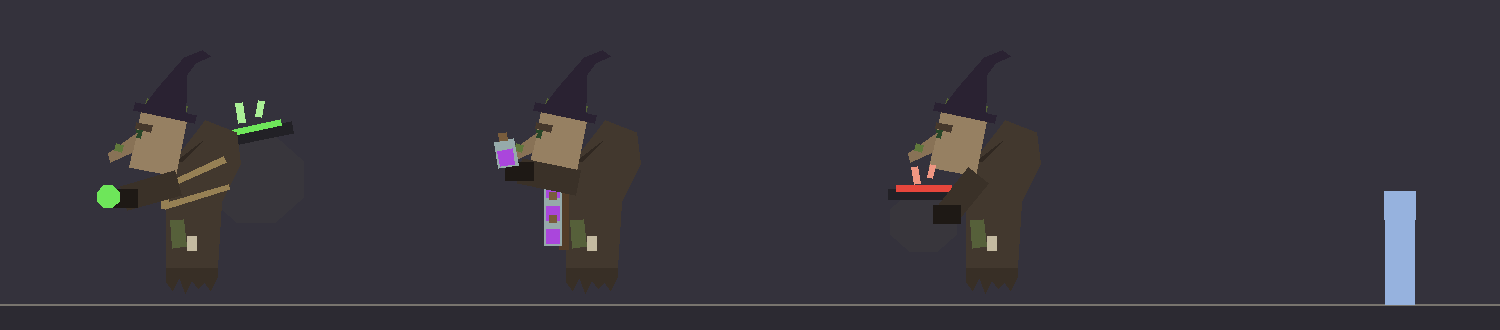
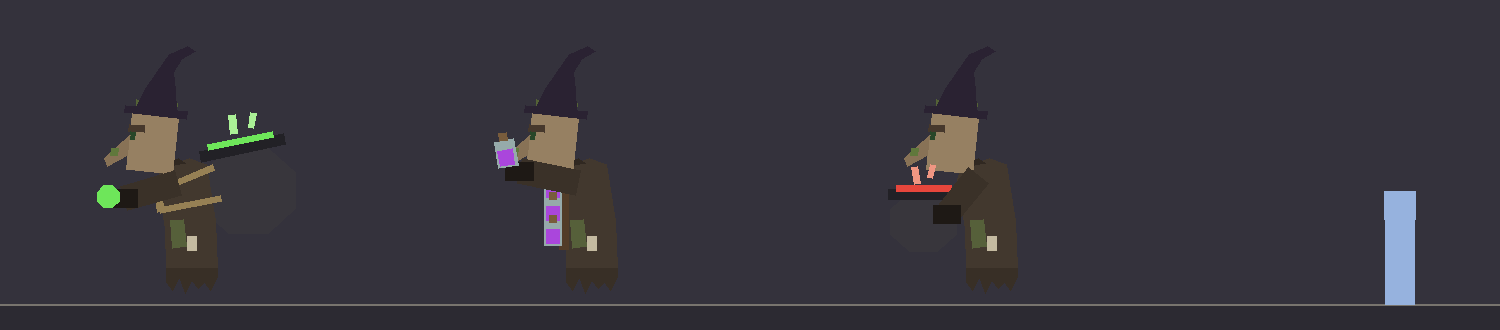
Witch Coven line-up: an old woman's stoop instead of a hump

diff --git a/tools/art/bosses/coven_lineup.py b/tools/art/bosses/coven_lineup.py
@@ -69,8 +69,9 @@ def ragged_hem(x0, x1, top, depth, teeth):
 
 # ---- the body (villager 1.45x: head 12 x 14.5, robe 12 wide; the back built up into a hump) ------------------------
 HEM_TOP, SHOULDER = 9, 34          # the robe runs straight from y 9 up to the shoulders at y 34
-HEAD = (-9, 41)                    # pushed forward and down by the hunch
-TILT = 12
+HEAD = (-10, 41)                   # an old woman's stoop: the upper body leans forward, the head comes forward
+TILT = 6
+STOOP = 9                          # degrees the robe leans forward above the waist
 
 
 def hat(hx, top):
@@ -82,13 +83,14 @@ def hat(hx, top):
 
 def side_body():
     """Side view, facing left (-z is the front)."""
-    out = [("robe", [(-6, HEM_TOP), (-6, SHOULDER - 2), (-3, SHOULDER + 4), (4, 47), (12, 44), (13, 36), (8, 26),
-                     (7, HEM_TOP)])]                       # straight front and back, the big hump over the shoulders
+    upper = turn([(-6, 20), (-6, SHOULDER - 1), (-4.5, SHOULDER + 2), (3, SHOULDER + 3), (7, SHOULDER + 1), (7, 20)],
+                 (0, 18), STOOP)                            # straight sides, rounded old shoulders, leaning forward
+    out = [("robe", [(-6, HEM_TOP)] + upper + [(7, HEM_TOP)])]
     out.append(("hem", ragged_hem(-6, 7, HEM_TOP, 5, 4)))
     out.append(("herb", rect(-3, 18, 3.5, 7, 6)))
     out.append(("bone", rect(0.5, 15.5, 2.2, 3.4)))
     hx, hy = HEAD
-    head = [("robe_dark", [(-4, SHOULDER + 3), (hx + 1, hy - 6), (hx + 7, hy - 3), (2, 44)]),     # the hood joining the hump
+    head = [("robe_dark", [(-8, SHOULDER + 1), (hx + 1, hy - 6), (hx + 7, hy - 3), (-1, SHOULDER + 3)]),  # the collar
             ("skin", rect(hx, hy, 12, 14.5)), ("brow", rect(hx - 4.5, hy + 3.6, 4, 1.8)),
             ("eye", rect(hx - 5.4, hy + 1.6, 1.4, 2)),
             ("nose", [(hx - 6, hy + 1.5), (hx - 12, hy - 5), (hx - 11, hy - 7), (hx - 6, hy - 3.5)]),
@@ -107,11 +109,11 @@ def side_sister(kind, role):
     out = []
     if kind == "cauldron":
         # the extra-large cauldron rides the hump, roped round her middle; one sleeve raised to cast
-        out += [("iron", octagon(17, 32, 12, 11)), ("iron_dark", rect(15.5, 43, 22, 3, 12)), (G, rect(15, 44.8, 17, 1.6, 12))]
-        out += [(M, rect(13, 49, 1.8, 5, 8)), (M, rect(18, 50, 1.5, 4, -10))]
+        out += [("iron", octagon(15, 29, 12, 11)), ("iron_dark", rect(13.5, 40, 22, 3, 12)), (G, rect(13, 41.8, 17, 1.6, 12))]
+        out += [(M, rect(11, 46, 1.8, 5, 8)), (M, rect(16, 47, 1.5, 4, -10))]
         out += side_body()
-        out += [("rope", segment((-6.5, 25), (10, 30), 1.6)), ("rope", segment((-6.5, 30), (9, 37), 1.6)),
-                ("rope", rect(-6.4, 27.5, 1.6, 6))]
+        out += [("rope", segment((-7.6, 24), (8, 27), 1.6)), ("rope", segment((-8.4, 29), (6, 35), 1.6)),
+                ("rope", rect(-7.9, 26.5, 1.6, 6, STOOP))]
         out += side_sleeve((-3, 31), (-17, 27))
         out += [(G, octagon(-21, 27.5, 2.8))]                                  # magic gathering at her cuff
     elif kind == "bottles":
@@ -132,8 +134,7 @@ def side_sister(kind, role):
 
 
 def front_body():
-    out = [("robe", octagon(0, 42, 11.5, 6.5)),                                 # the hump rising behind the head
-           ("robe", [(-6.5, HEM_TOP), (6.5, HEM_TOP), (7.5, SHOULDER), (9, SHOULDER + 5), (-9, SHOULDER + 5), (-7.5, SHOULDER)])]
+    out = [("robe", [(-6.5, HEM_TOP), (6.5, HEM_TOP), (7, SHOULDER), (5.5, SHOULDER + 3), (-5.5, SHOULDER + 3), (-7, SHOULDER)])]
     out.append(("hem", ragged_hem(-6.5, 6.5, HEM_TOP, 5, 4)))
     hx, hy = 0, HEAD[1] - 3
     out += [("skin", rect(hx, hy, 12, 14.5)), ("brow", rect(hx, hy + 3.6, 9, 1.8)),

diff --git a/docs/art/bosses/witch_coven/overhaul/plan.md b/docs/art/bosses/witch_coven/overhaul/plan.md
@@ -24,8 +24,8 @@ Rejected pitches: the Bottle Sisters (hard to read, easy to make goofy) and the 
 ## The three sisters: the same body, told apart only by their vessels
 
 **Decided by the user (2026-10-11):**
-- **Body:** built like a vanilla witch or villager (the long robe, the head, the big nose, the sleeves folded across
-  the chest), but with a **hunched back**, and **larger than a player** so they loom over you.
+- **Body:** built like a vanilla witch or villager (the long robe, the head, the big nose), **larger than a player**
+  so they loom over you, and crouched forward in an old woman's stoop. No hump.
 - **No fingers, no visible hands.** The sleeves end in dark cuffs; whatever a sister holds or throws comes out of
   her sleeves.
 - **All three are the same size and build.** Only their vessels tell them apart.
@@ -39,7 +39,7 @@ Rejected pitches: the Bottle Sisters (hard to read, easy to make goofy) and the 
 
 | Sister | Vessel | How she works |
 |---|---|---|
-| **The cauldron** | an extra-large cauldron hung on her hunched back, tied on with ropes round her middle | her sleeves are free: she casts and throws with them, drawing from the cauldron |
+| **The cauldron** | an extra-large cauldron hung on her back, tied on with ropes round her middle | her sleeves are free: she casts and throws with them, drawing from the cauldron |
 | **The bottles** | a diagonal shoulder belt of large potion bottles, and one held in her sleeve | she throws the bottles; the brew in all of them shows the role |
 | **The pot** | a pot held in front of her in both sleeves | she pours, tips and flings from it |
 
@@ -64,7 +64,7 @@ that fades. The survivors glance at it briefly, never during an attack.
 - **A vessel never covers the face or the torso.** That's the Volley arbalest lesson: it hangs in front below the
   chest, swings at the side, or rides the back. Each vessel stays within about 40% of its witch's silhouette.
 - **The three sisters share one body**, so the vessels must be large and placed differently (on the back, across
-  the chest, held in front) for the sisters to differ at a glance. The hat and the hunch are the shared marks.
+  the chest, held in front) for the sisters to differ at a glance. The hat and the stoop are the shared marks.
 - **Few parts:** the boss-modeling lessons say about 40-60 cubes per witch, so three witches stay near Brood
   Mother's 72 displays in total. The leaves, thorns, herb texture and twine are paint, not geometry.
 - **Faces:** the vanilla witch's face (big nose, wart, deep-set eyes) is the recognisable part, made more interesting.

diff --git a/docs/art/bosses/witch_coven/overhaul/s1_lineup/README.md b/docs/art/bosses/witch_coven/overhaul/s1_lineup/README.md
@@ -4,14 +4,15 @@ The direction and decisions are in [../plan.md](../plan.md). Take 1 (three body 
 censer and a back-pot) is in git history; the user found its proportions weird and replaced the vessels.
 
 **The body, the same for all three:**
-- a villager with a hunched, big back, about 1.45x a villager (3 blocks to the top of the head; the player is 1.8);
+- a large old villager, about 1.45x a villager (3 blocks to the top of the head; the player is 1.8), crouched in an
+  old woman's stoop: the upper body leans forward on rounded shoulders, with no hump (the user's correction);
 - a straight villager robe, no flare;
 - a flat ragged hem hanging under it as she hovers (a 2D plane, its rags in the texture);
 - vanilla's witch hat at the head's scale;
 - no fingers: the sleeves end in dark cuffs.
 
 **The vessels, the only difference between the sisters:**
-1. **The cauldron:** an extra-large cauldron on her hunched back, roped round her middle. Her sleeves are free: she
+1. **The cauldron:** an extra-large cauldron on her back, roped round her middle. Her sleeves are free: she
    casts and throws with them.
 2. **The bottles:** a diagonal shoulder belt of large potion bottles, and one held up in her sleeve, ready to throw.
 3. **The pot:** a pot held out in front of her in both sleeves.
